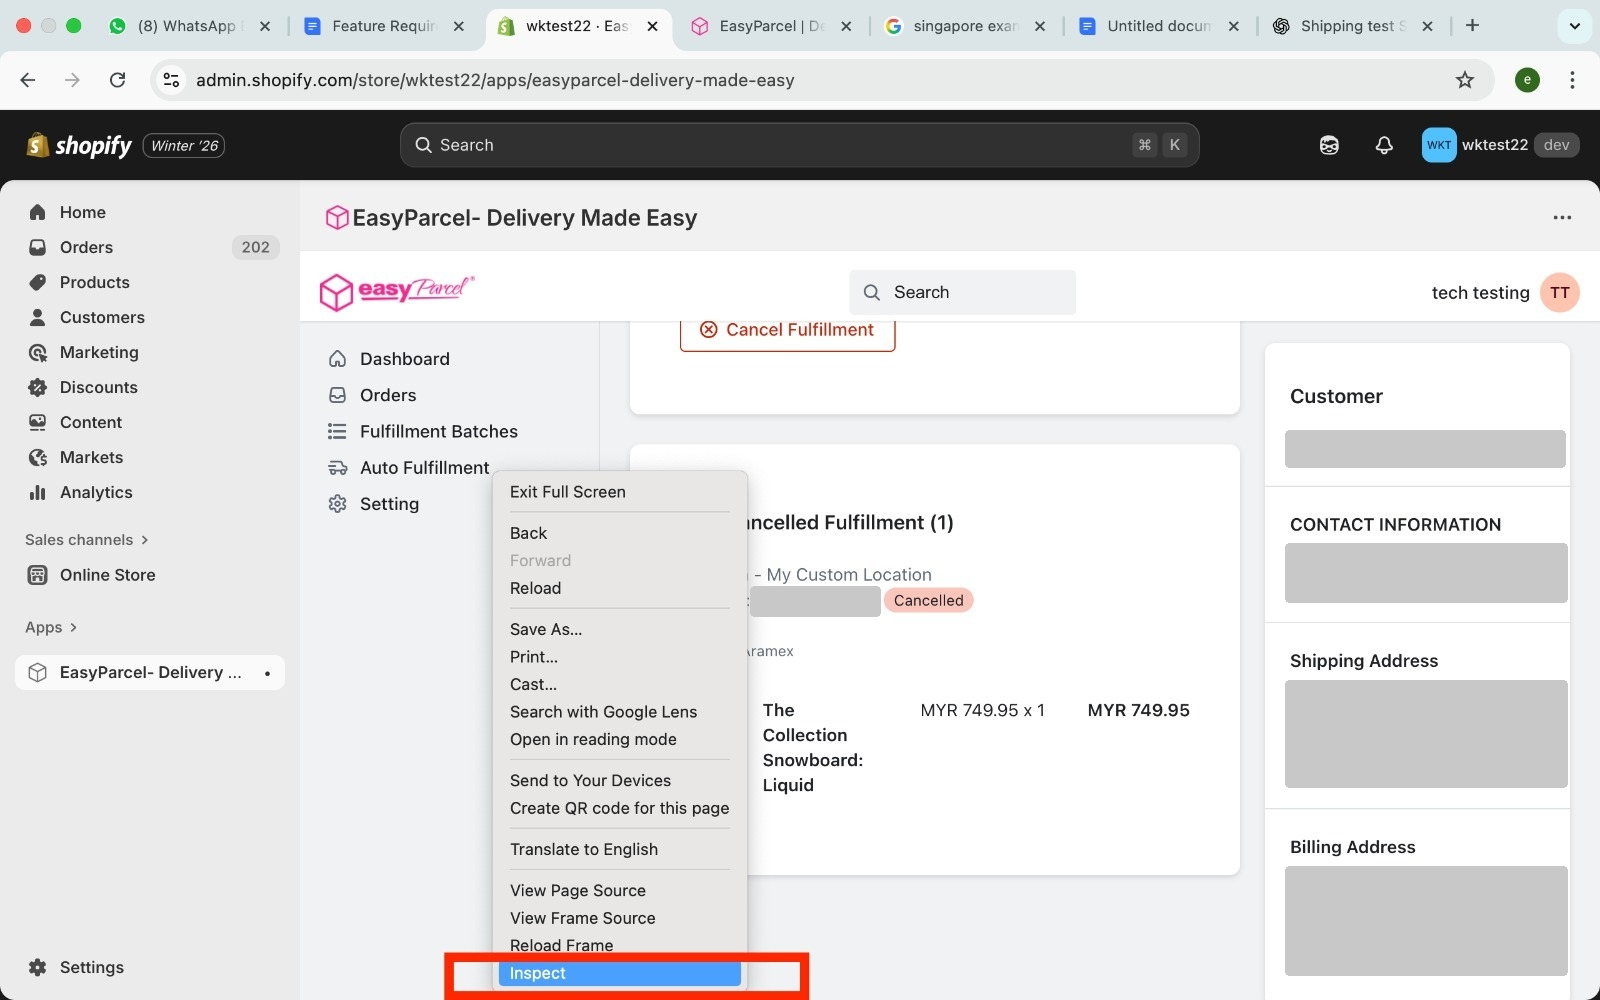
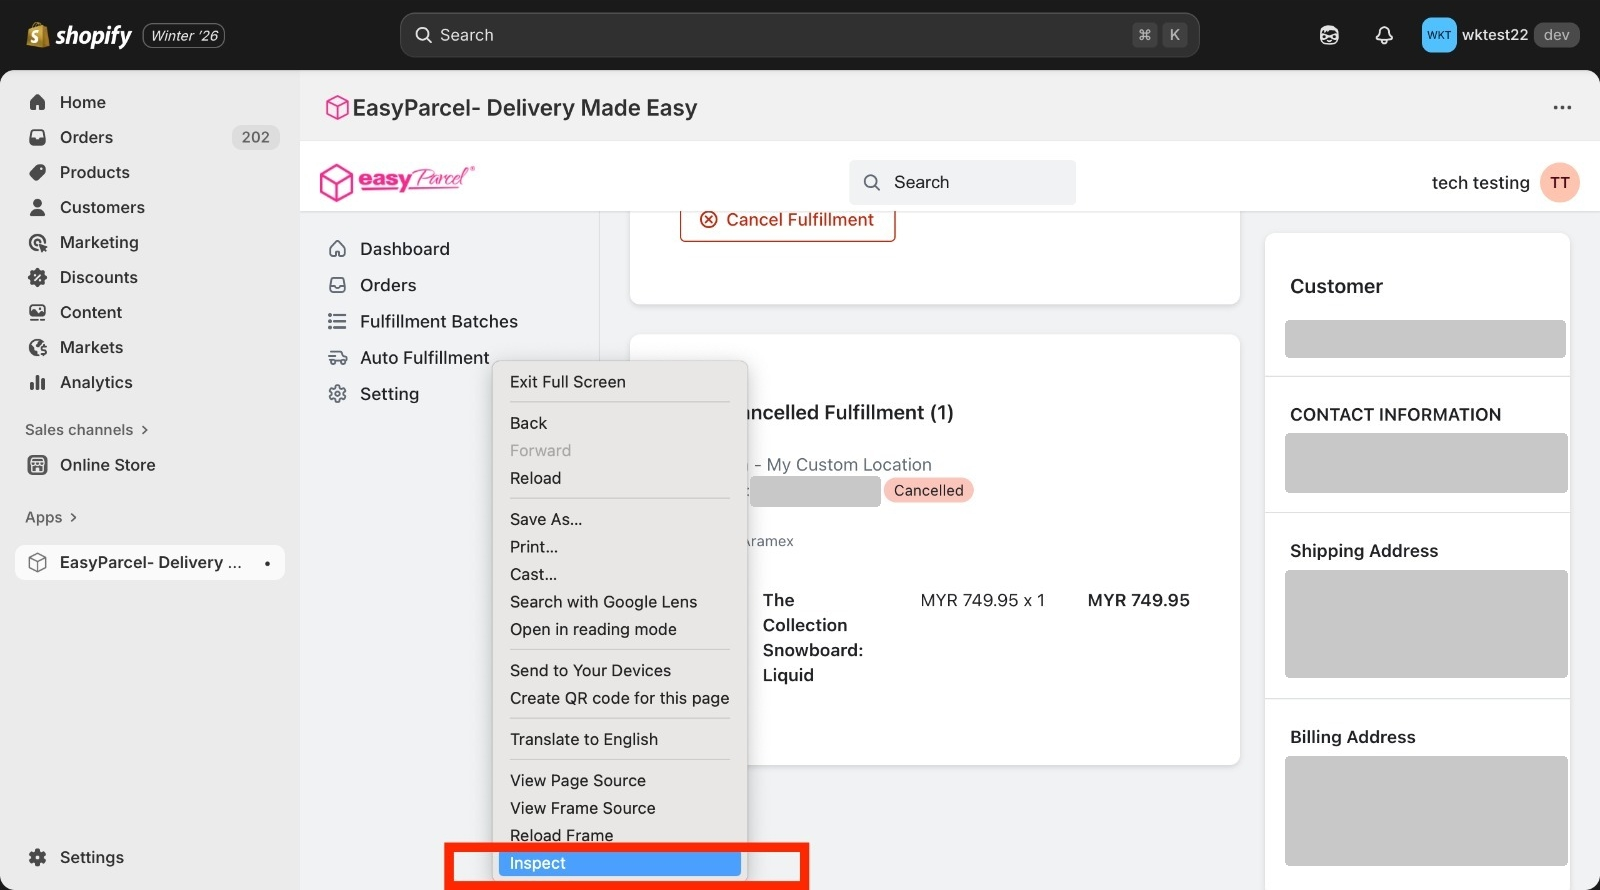
Crop the browser tabs and address bar from the blank page screenshots
Step 6 now says how to refresh, since its reload button was cropped out.

diff --git a/plugin(Seamless)/ShopifyBlankPage.md b/plugin(Seamless)/ShopifyBlankPage.md
@@ -17,7 +17,7 @@ If the EasyParcel - Delivery Made Easy app opens as a blank page in your Shopify
 #### Step 5: At the top right of the Network tab, tick the 'Disable cache' box.
 ![Tick Disable cache](images/shopify-blank-page/sb-05-disable-cache.png)
 
-#### Step 6: **Keep the developer tools panel open** and refresh the page. The app should now load.
+#### Step 6: **Keep the developer tools panel open** and refresh the page (click the browser's reload button, or press Ctrl + R / Cmd + R on a Mac). The app should now load.
 ![Refresh the page](images/shopify-blank-page/sb-06-refresh.png)
 
 **Note:** 'Disable cache' only works while the developer tools panel is open. Once the app loads, you can close the panel.
